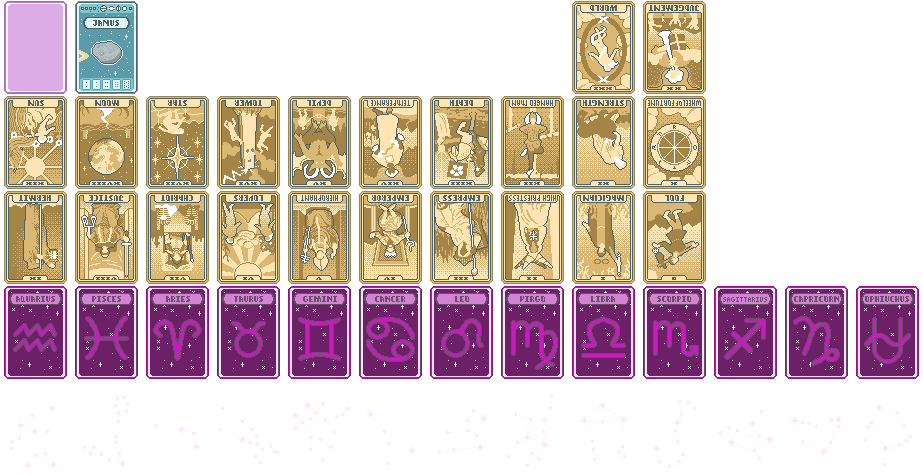
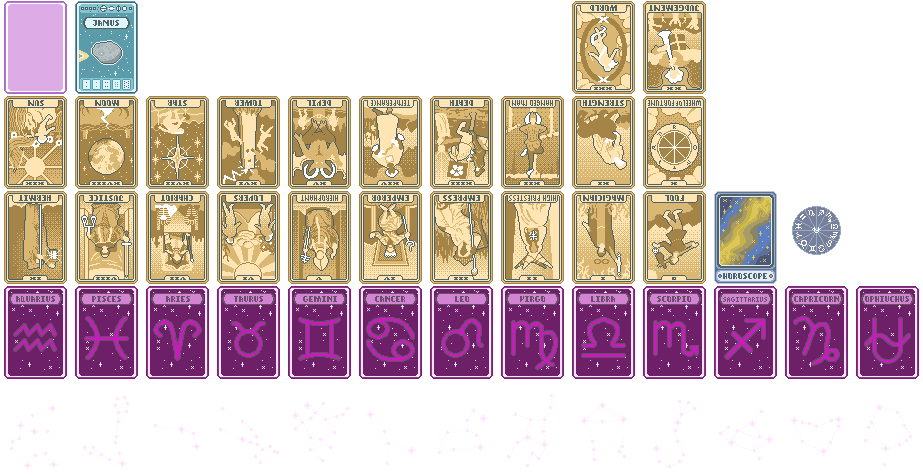
Horoscope Spectral card, applies Magenta Seal

Changed region(s): [[0.7584, 0.3832, 0.9101, 0.6189]]

diff --git a/README.md b/README.md
@@ -64,7 +64,7 @@ To follow:<br/>
 </ul>
 #----------------------------------------------------------------------------------------------<br/>
 Spectrals<br/>
- - Applies a Magenta Seal to the selected card<br/>
+Horoscope - Applies a Magenta Seal to the selected card<br/>
 #----------------------------------------------------------------------------------------------<br/>
 Jokers<br/>
 Rekoj - Gives -4 Mult<br/>
